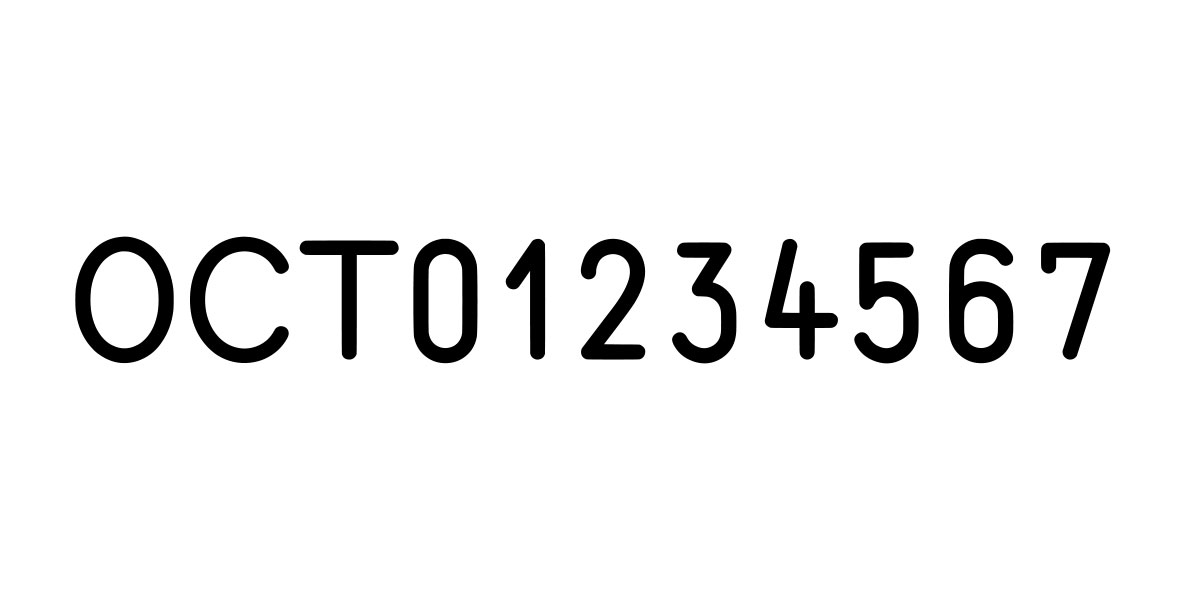
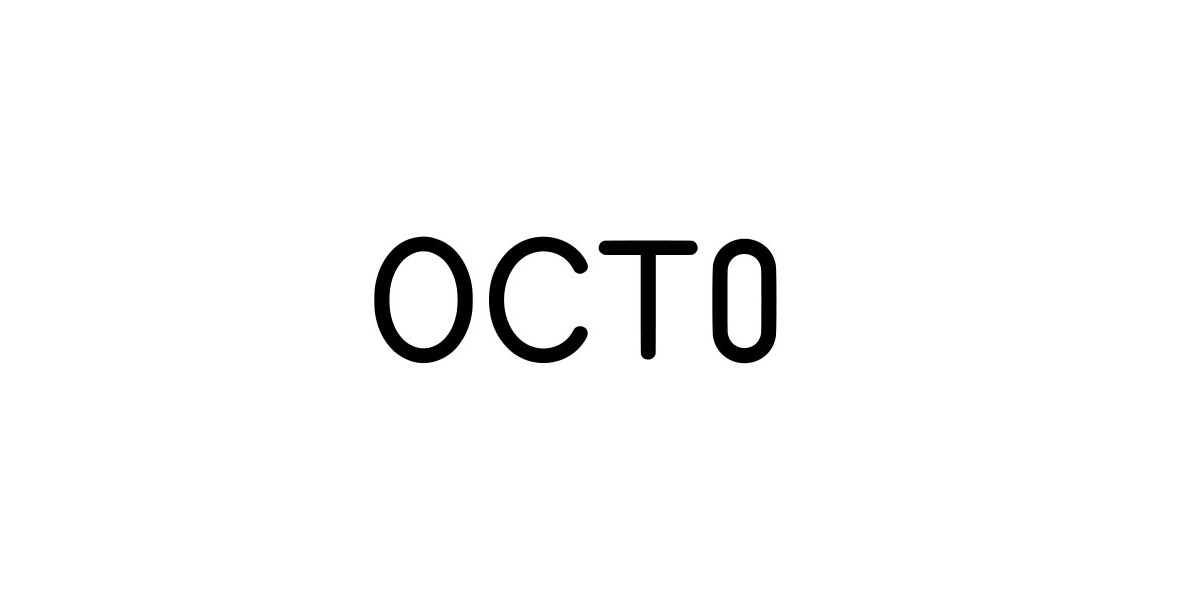
hot fix change social media card image and text

Changed region(s): [[0.0617, 0.39, 0.925, 0.63]]

diff --git a/views/head.php b/views/head.php
@@ -52,13 +52,13 @@ else
 		<meta http-equiv="Content-Type" content="text/html; charset=UTF-8">
 		<meta name="og:image" content="<?= $card_image; ?>" />
 		<meta name="og:type" content="website" />
-		<meta name="og:title" content="OCT01234567" />
+		<meta name="og:title" content="OCTO" />
 		<meta name="og:url" content="https://www.octo.productions" />
 		<meta name="og:description" content="OCT0 is a non-profit production office based in Marseille, France operating internationally." />
 		<meta name="twitter:card" content="summary" />
-		<meta name="twitter:title" content="OCT01234567" />
+		<meta name="twitter:title" content="OCTO" />
 		<meta name="twitter:site" content="https://www.octo.productions" />
-		<meta name="twitter:description" content="OCT0 is a non-profit production office based in Marseille, France operating internationally." />
+		<meta name="twitter:description" content="OCTO is a non-profit production office based in Marseille, France operating internationally." />
 		<meta name="twitter:image" content="https://www.octo.productions<?= $card_image; ?>" />
 		<link rel="stylesheet" href="/static/css/main.css">
 		<link rel="stylesheet" href="/static/css/sf-mono.css">
